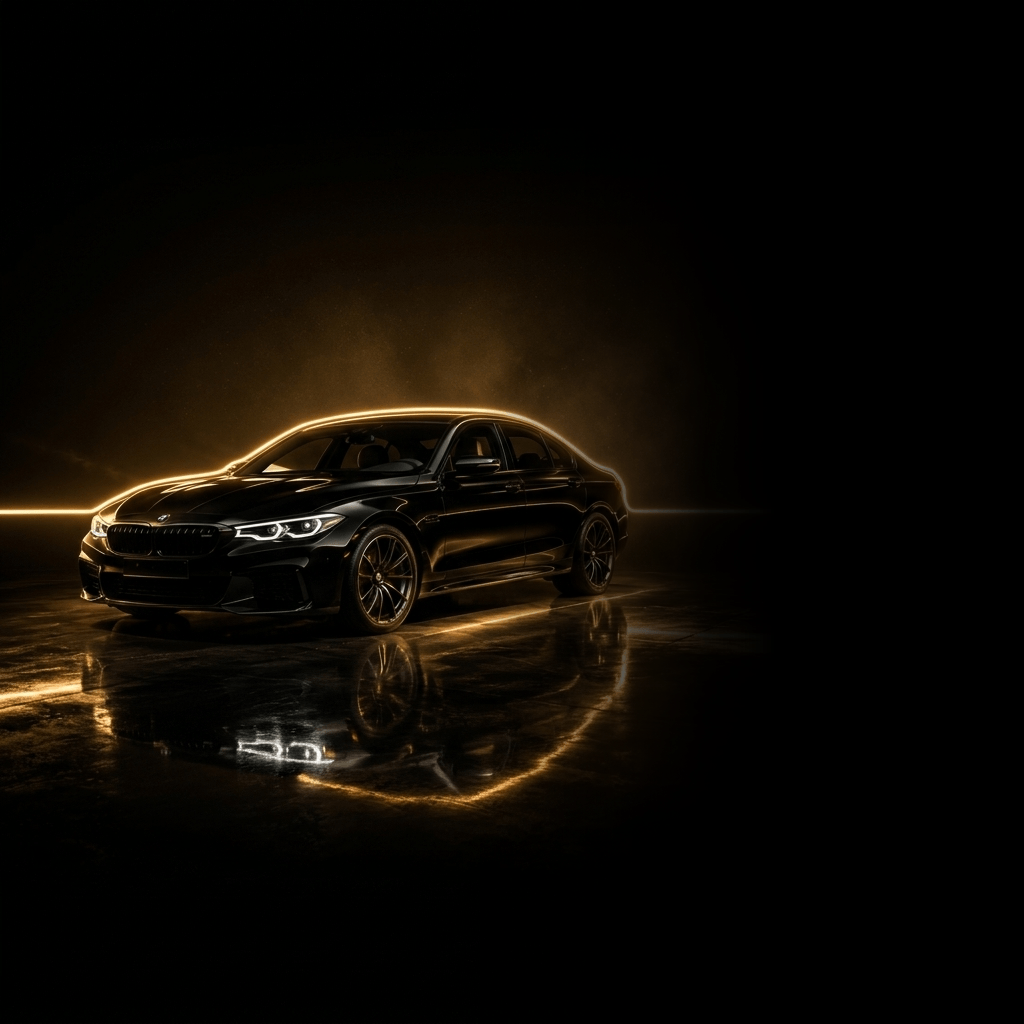
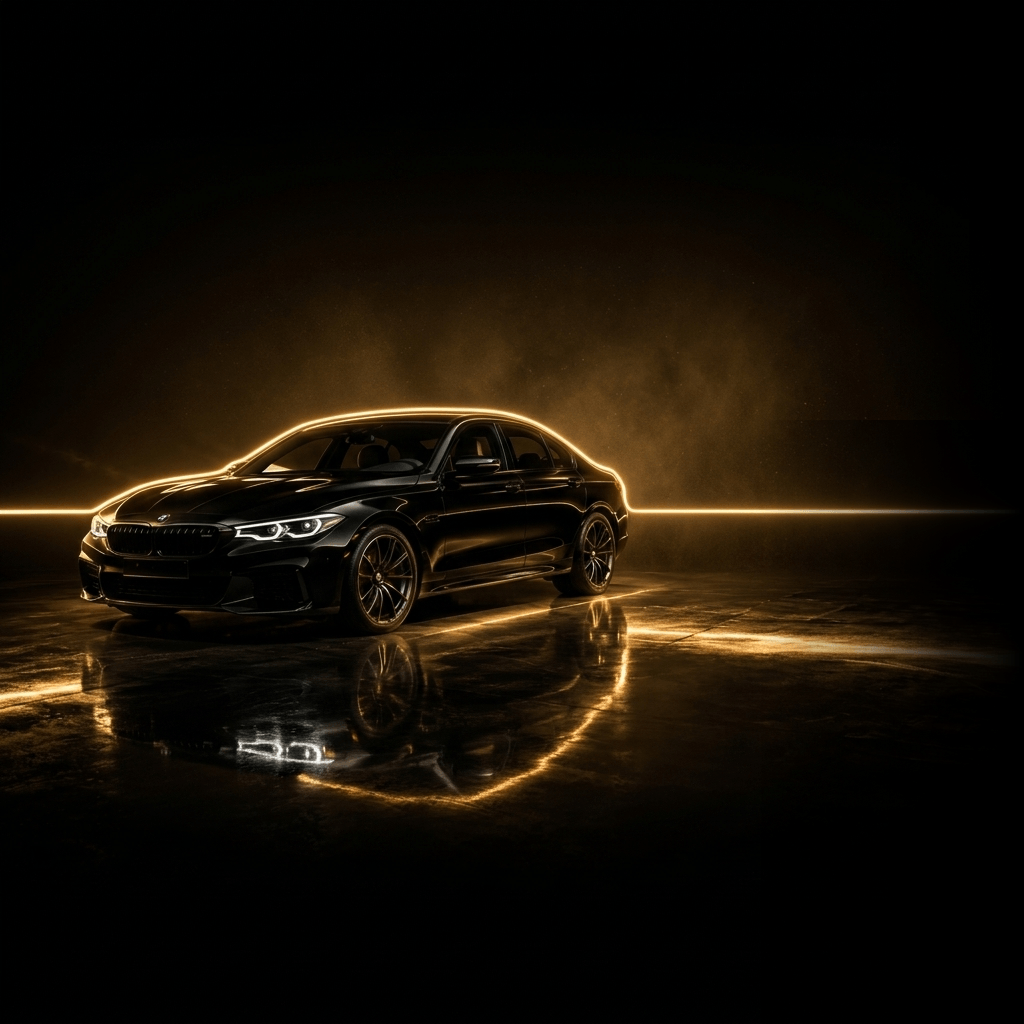
تحديث الكود والتصميم

Changed region(s): [[0.5, 0.25, 0.9688, 0.7812]]

diff --git a/src/app/page.tsx b/src/app/page.tsx
@@ -79,45 +79,59 @@ function getServiceRealImage(slug: string, coverImage: string): string {
 }
 
 export default async function HomePage() {
-  const [user, services, plans, coverageAreas, branchContact, testimonials, brand] = await Promise.all([
-    getCurrentUser(),
-    db.service.findMany({
-      where: { active: true, bookableOnline: true },
-      take: 6,
-      orderBy: { basePrice: 'asc' },
-    }),
-    db.subscriptionPlan.findMany({
-      where: { active: true },
-      take: 3,
-      orderBy: { price: 'asc' },
-    }),
-    db.coverageArea.findMany({
-      where: { active: true, zone: { branch: { status: 'ACTIVE' } } },
-      select: {
-        id: true,
-        compound: true,
-        district: true,
-        city: true,
-        zone: { select: { branch: { select: { nameAr: true } } } },
-      },
-      orderBy: [{ priority: 'asc' }, { compound: 'asc' }],
-      take: 14,
-    }),
-    getPublicBranchContact(),
-    db.customerServiceRating.findMany({
-      where: { approvedForPublic: true, comment: { not: null } },
-      orderBy: { createdAt: 'desc' },
-      take: 3,
-      select: {
-        id: true,
-        score: true,
-        comment: true,
-        customer: { select: { user: { select: { fullName: true } } } },
-        booking: { select: { service: { select: { nameAr: true } } } },
-      },
-    }),
-    db.brandSettings.findFirst({ select: { homepageContent: true, faqs: true } }),
-  ]);
+  let user = null;
+  let services: any[] = [];
+  let plans: any[] = [];
+  let coverageAreas: any[] = [];
+  let branchContact = null;
+  let testimonials: any[] = [];
+  let brand = null;
+
+  try {
+    const results = await Promise.all([
+      getCurrentUser().catch(() => null),
+      db.service.findMany({
+        where: { active: true, bookableOnline: true },
+        take: 6,
+        orderBy: { basePrice: 'asc' },
+      }).catch(() => []),
+      db.subscriptionPlan.findMany({
+        where: { active: true },
+        take: 3,
+        orderBy: { price: 'asc' },
+      }).catch(() => []),
+      db.coverageArea.findMany({
+        where: { active: true, zone: { branch: { status: 'ACTIVE' } } },
+        select: {
+          id: true,
+          compound: true,
+          district: true,
+          city: true,
+          zone: { select: { branch: { select: { nameAr: true } } } },
+        },
+        orderBy: [{ priority: 'asc' }, { compound: 'asc' }],
+        take: 14,
+      }).catch(() => []),
+      getPublicBranchContact().catch(() => null),
+      db.customerServiceRating.findMany({
+        where: { approvedForPublic: true, comment: { not: null } },
+        orderBy: { createdAt: 'desc' },
+        take: 3,
+        select: {
+          id: true,
+          score: true,
+          comment: true,
+          customer: { select: { user: { select: { fullName: true } } } },
+          booking: { select: { service: { select: { nameAr: true } } } },
+        },
+      }).catch(() => []),
+      db.brandSettings.findFirst({ select: { homepageContent: true, faqs: true } }).catch(() => null),
+    ]);
+
+    [user, services, plans, coverageAreas, branchContact, testimonials, brand] = results;
+  } catch (err) {
+    console.error('Error fetching HomePage data:', err);
+  }
 
   const publishedTestimonials = testimonials.filter((rating) => rating.comment?.trim());
 
@@ -178,6 +192,8 @@ export default async function HomePage() {
               unoptimized={true}
               className="w-full h-full object-cover object-center lg:object-left-center scale-100"
             />
+            {/* Subtle Mobile Side-Edge Softening Overlay */}
+            <div className="absolute inset-0 bg-gradient-to-r from-black/40 via-transparent to-black/50 lg:hidden pointer-events-none z-[1]" />
           </div>
 
           {/* ==================================================== */}
@@ -283,10 +299,10 @@ export default async function HomePage() {
             </div>
 
             {/* Middle Spacer: Clear view of the car image on Mobile */}
-            <div className="h-44 xs:h-52 sm:h-60 w-full" aria-hidden="true" />
+            <div className="h-96 xs:h-[400px] sm:h-[460px] w-full" aria-hidden="true" />
 
             {/* Bottom: Description + Side-by-Side Centered Buttons sitting directly over background */}
-            <div className="space-y-4 pt-2 pb-2 text-center">
+            <div className="space-y-4 pt-14 pb-2 text-center">
               <p className="text-neutral-200 text-xs sm:text-sm leading-relaxed text-right font-normal drop-shadow-[0_2px_6px_rgba(0,0,0,0.9)]">
                 نقدم خدمة غسيل جاف وعناية احترافية متنقلة تحافظ على طلاء السيارة ومظهرها الداخلي والخارجي، بأعلى مستوى من الجودة والرفاهية.
               </p>

diff --git a/scripts/fix_floor_reflection.js b/scripts/fix_floor_reflection.js
@@ -1,0 +1,55 @@
+const sharp = require('sharp');
+const path = require('path');
+
+async function fixFloorReflection() {
+  const originalSource = 'C:\\Users\\Hamza\\.gemini\\antigravity-ide\\brain\\fd4eaeb1-8153-435e-ba23-84fe283035c3\\bareeq_user_bmw_hero_bg_1786026909079.png';
+  const outputPath = path.join(__dirname, '../public/images/bareeq_user_bmw_hero_bg_faded.png');
+  
+  const metadata = await sharp(originalSource).metadata();
+  const width = metadata.width; // 1024
+  const height = metadata.height; // 1024
+
+  console.log(`Original Image size: ${width}x${height}`);
+
+  // Specifically target ONLY the floor reflection light area on the right (x: 780 to 1024, y: 420 to 750)
+  // We use a linear gradient for the lower half of the right side so the floor light reflection fades seamlessly before hitting x=1024.
+  const svgOverlay = `
+    <svg width="${width}" height="${height}">
+      <defs>
+        <!-- Floor Reflection Gradient: Fades floor light reflection on the right from x=760 to 1024 -->
+        <linearGradient id="floorReflectionFade" x1="760" y1="0" x2="1024" y2="0" gradientUnits="userSpaceOnUse">
+          <stop offset="0%" stop-color="#000000" stop-opacity="0" />
+          <stop offset="35%" stop-color="#000000" stop-opacity="0.3" />
+          <stop offset="70%" stop-color="#000000" stop-opacity="0.8" />
+          <stop offset="100%" stop-color="#000000" stop-opacity="1" />
+        </linearGradient>
+        <!-- Very subtle upper right wall fade for overall harmony -->
+        <linearGradient id="wallRightFade" x1="900" y1="0" x2="1024" y2="0" gradientUnits="userSpaceOnUse">
+          <stop offset="0%" stop-color="#000000" stop-opacity="0" />
+          <stop offset="100%" stop-color="#000000" stop-opacity="0.9" />
+        </linearGradient>
+      </defs>
+
+      <!-- Upper right wall fade (y: 0 to 420, x: 900 to 1024) -->
+      <rect x="900" y="0" width="124" height="420" fill="url(#wallRightFade)" />
+
+      <!-- Lower right floor reflection fade (y: 420 to 1024, x: 760 to 1024) -->
+      <rect x="760" y="420" width="264" height="604" fill="url(#floorReflectionFade)" />
+    </svg>
+  `;
+
+  await sharp(originalSource)
+    .composite([
+      {
+        input: Buffer.from(svgOverlay),
+        top: 0,
+        left: 0
+      }
+    ])
+    .png({ quality: 100 })
+    .toFile(outputPath);
+
+  console.log('Successfully fixed floor reflection right-edge cutoff at ' + outputPath);
+}
+
+fixFloorReflection().catch(console.error);

diff --git a/scripts/fade_right_edge.js b/scripts/fade_right_edge.js
@@ -12,24 +12,22 @@ async function fadeRightEdge() {
 
   console.log(`Original Image size: ${width}x${height}`);
 
-  // Fade right edge starting at x=480 (right behind car rear) to x=780 so mobile view (which crops at ~650-700px) is 100% black
-  const fadeStartPixel = 480; 
-  const fadeEndPixel = 780;
+  // Fade ONLY the far right edge (last 140px, x=884 to 1024) so the studio image stays 100% bright
+  const fadeStartPixel = 884; 
+  const fadeEndPixel = 1024;
   
   const svgOverlay = `
     <svg width="${width}" height="${height}">
       <defs>
         <linearGradient id="rightEdgeFade" x1="${fadeStartPixel}" y1="0" x2="${fadeEndPixel}" y2="0" gradientUnits="userSpaceOnUse">
           <stop offset="0%" stop-color="#000000" stop-opacity="0" />
-          <stop offset="35%" stop-color="#000000" stop-opacity="0.5" />
-          <stop offset="75%" stop-color="#000000" stop-opacity="0.92" />
+          <stop offset="40%" stop-color="#000000" stop-opacity="0.4" />
+          <stop offset="85%" stop-color="#000000" stop-opacity="0.9" />
           <stop offset="100%" stop-color="#000000" stop-opacity="1" />
         </linearGradient>
       </defs>
-      <!-- Gradient rect from 480px to 780px -->
+      <!-- Gradient rect only at far right edge (884px to 1024px) -->
       <rect x="${fadeStartPixel}" y="0" width="${fadeEndPixel - fadeStartPixel}" height="${height}" fill="url(#rightEdgeFade)" />
-      <!-- Solid black rect from 780px to 1024px -->
-      <rect x="${fadeEndPixel}" y="0" width="${width - fadeEndPixel}" height="${height}" fill="#000000" />
     </svg>
   `;
 

diff --git a/src/app/loading.tsx b/src/app/loading.tsx
@@ -5,17 +5,19 @@ export default function Loading() {
     <div
       role="status"
       aria-label="جارٍ تجهيز الصفحة"
-      className="min-h-screen bg-[#080808] px-4 py-16 text-white flex items-center justify-center"
+      className="fixed inset-0 z-50 bg-[#050505] flex flex-col items-center justify-center text-white transition-opacity duration-300"
       aria-busy="true"
       aria-live="polite"
     >
-      <div className="w-full max-w-sm rounded-3xl border border-[#cea355]/25 bg-[#141414] p-8 text-center shadow-2xl">
-        <BareeqLogo size="lg" />
-        <div className="mt-8 space-y-3" aria-hidden="true">
-          <div className="h-3 w-3/4 mx-auto rounded-full bg-neutral-800 animate-pulse" />
-          <div className="h-3 w-1/2 mx-auto rounded-full bg-neutral-800 animate-pulse" />
+      {/* Top Gold Animated Loading Progress Bar */}
+      <div className="fixed top-0 left-0 right-0 h-1 gold-gradient animate-pulse z-50" />
+
+      <div className="flex flex-col items-center justify-center space-y-4 p-6 text-center">
+        <BareeqLogo size="md" />
+        <div className="flex items-center gap-2 pt-2">
+          <div className="w-2 h-2 rounded-full bg-[#cea355] animate-ping" />
+          <span className="text-xs font-bold text-[#edce8b] tracking-wider uppercase">جاري التحميل...</span>
         </div>
-        <p className="mt-6 text-sm font-semibold text-[#edce8b]">جاري تجهيز الصفحة…</p>
       </div>
     </div>
   );
